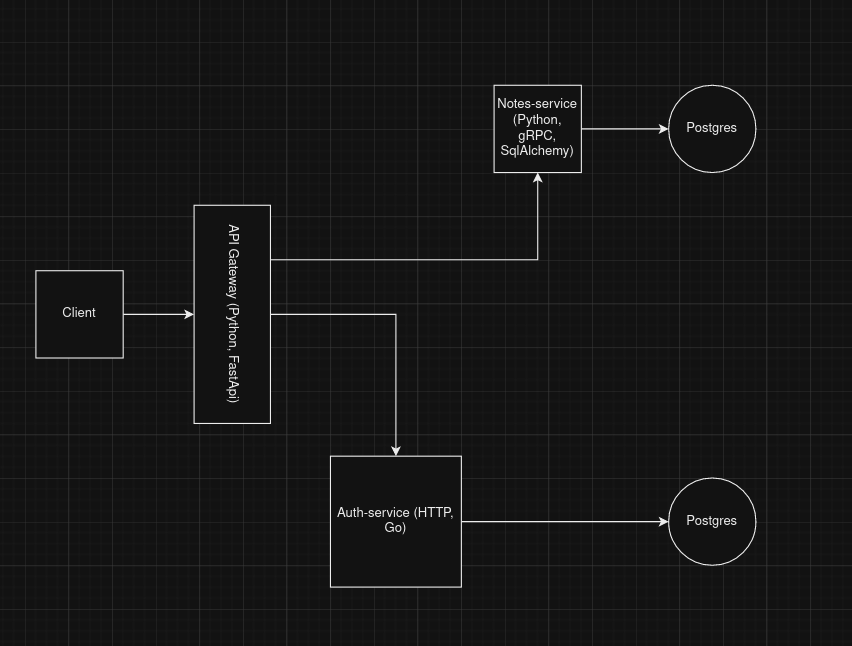
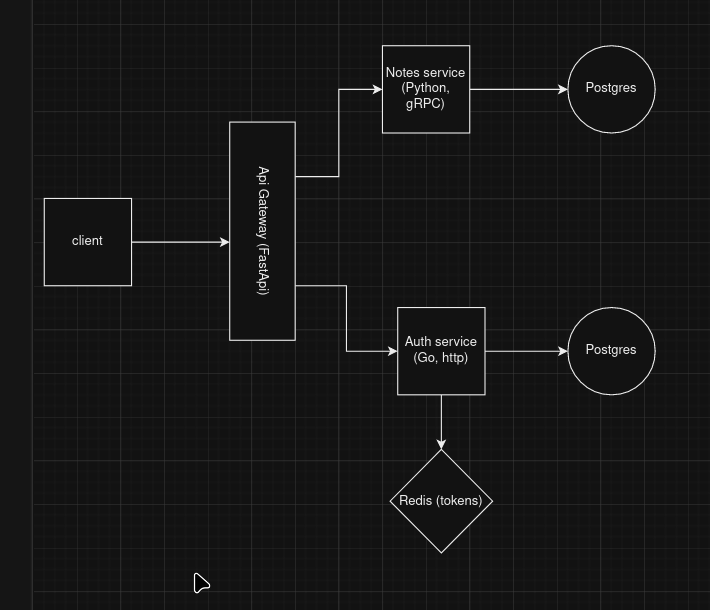
update: detailed description added in readme

diff --git a/01_api_gateway/app/clients/auth/handlers.py b/01_api_gateway/app/clients/auth/handlers.py
@@ -33,7 +33,6 @@ async def login_for_access_token(form_data: OAuth2PasswordRequestForm = Depends(
     auth_input = {"email": form_data.username, "password": form_data.password}
 
     try:
-        #print(auth_input.dict())
         auth_token = requests.post(url=settings.LOGIN_URL, json=auth_input)
         print(auth_token.json())
     except Exception as ex:
@@ -41,23 +40,12 @@ async def login_for_access_token(form_data: OAuth2PasswordRequestForm = Depends(
 
     return auth_token.json()
 
-    # user = await authenticate_user(form_data.username, form_data.password)
-    # if not user:
-    #     raise HTTPException(status_code=status.HTTP_401_UNAUTHORIZED, detail="Incorrect username or password",)
 
-    # # Если пользователь найден по почте, то создаем для него токен
-    # access_token_expires = timedelta(minutes=settings.ACCESS_TOKEN_EXPIRE_MINUTES)
+@router_auth.post("/register")
+async def register_user():
+    pass
 
-    # access_token = create_access_token(
-    #     data={"sub": user.email, "other_custom_data": [1, 2, 3, 4]},
-    #     expires_delta=access_token_expires,
-    # )
 
-    # return {"access_token": access_token, "token_type": "bearer"}
-
-# @router_auth.get("/")
-# async def test_for_auth(userUUID = Depends(get_userUUID_from_token)):
-
-#     """Получить информацию о пользователе по его id"""
-
-#     return JSONResponse({"userUUID": userUUID})
+@router_auth.get("/refreshtokens")
+async def refresh_tokens():
+    pass

diff --git a/03_notes_service/app/notes/handlers.py b/03_notes_service/app/notes/handlers.py
@@ -121,8 +121,8 @@ class NoteService(notes_pb2_grpc.NoteServicer):
         serialized_category = NotesByCategory.model_validate(category)
 
         user_permission = await verify_permission_category(category_id=serialized_category.category_id, 
-                                                     user_uuid=serialized_category.user_uuid,
-                                                     async_session=settings.async_session)
+                                                           user_uuid=serialized_category.user_uuid,
+                                                           async_session=settings.async_session)
         
         if user_permission is None:
 

diff --git a/02_auth_service/app/internal/auth/services.go b/02_auth_service/app/internal/auth/services.go
@@ -86,8 +86,6 @@ func (s *service) Login(ctx context.Context, loginUser LoginUserDTO) (*jwt.Token
 	// 	return nil, err
 	// }
 
-	fmt.Println("UUID", user.Email)
-
 	tokens, err := s.createSession(ctx, user.UUID)
 	if err != nil {
 		s.logger.Error("Failed to create session %w", err)
@@ -116,7 +114,6 @@ func (s *service) createSession(ctx context.Context, userUUID string) (jwt.Token
 	session := Session{
 		UserUUID:  userUUID,
 		ExpiresAt: time.Duration(s.refreshTokenTTL) * time.Minute,
-		// ExpiresAt: time.Now().Add(s.refreshTokenTTL),
 	}
 
 	err = s.redis.SetSession(ctx, res.RefreshToken, session)

diff --git a/02_auth_service/app/internal/auth/redis_store.go b/02_auth_service/app/internal/auth/redis_store.go
@@ -31,10 +31,9 @@ func (r *RedisRepo) SetSession(ctx context.Context, RefreshToken string, sess Se
 		return err
 	}
 
-	var q time.Time
-	q = time.Now().Local().Add(10 * time.Second)
+	timeExpireSession := time.Now().Local().Add(10 * time.Second)
 
-	r.client.ExpireAt(ctx, RefreshToken, q)
+	r.client.ExpireAt(ctx, RefreshToken, timeExpireSession)
 
 	return nil
 }

diff --git a/README.md b/README.md
@@ -1,25 +1,82 @@
 ## Описание
 
-## Схема микросервисов
+Приложение для хранения и создания заметок по категориям. Приложение состоит из
+трех микросервисов.
 
-![](https://github.com/iriskin77/notes_microservices/blob/master/images/microservices.jpg)
+1) Api Gateway (Python, FastApi) - является точкой входа в приложение, валидируется
+запросы, проверяет авторизацию и аутентификацию пользователей (парсит JWT). Через Api Gateway
+происходит обращение к другим сервисам.
+
+2) Auth service (Go) - сервис для регстрации и авторизации пользователей. Авторизация
+реализована через JWT, токены хранятся в Redis. 
+
+3) Note service (Python, gRPC) - сервис для хранения и создания заметок/категорий. 
+Для использования требуется регистрация/авторизация в сервисе Auth service.
+
+Для всех приложений созданые Dockerfile.
+
+Разумеется, для такого простого приложения не требуется использования микросервисной архитектуры, gRPC, разных языков программирования и прочих усложнений.
+Вполне достаточно использовать даже простой Django с его html шаблонами.
+ОДНАКО очень-очень хотелось попробовать написать микросервисы (впервые в жизни), да еще и на разных языках. Поэтому и написал.
+
+#### Схема микросервисов
+
+![](https://github.com/iriskin77/notes_microservices/blob/master/images/microservices.png)
 
 
-## Схема БД
+#### Общая схема БД
 
-![](https://github.com/iriskin77/notes_microservices/blob/master/images/db.jpg)
+![](https://github.com/iriskin77/notes_microservices/blob/master/images/db_schema.png)
 
 
 ### Api Gateway (Python, FastApi)
 
+#### Схема swagger из ApiGateway:
+
+![](https://github.com/iriskin77/notes_microservices/blob/master/images/endpoints.png)
+
 ### Auth service (Go, REST Api, Postgres)
+
+#### Описание
+
+Сервис для регистрации и авторизации пользователей. Авторизация реализована через JWT. После авторизации пользователю выдаются 
+access-token и refresh-token. Сессии с токенами хранятся в Redis.
+
+Взаимодействие с сервисом происходит по HTTP через Api Gateway.
+
+#### Схема БД
 
 #### HTTP Methods
 
+Набор эндпоинтов см. выше (Api Gateway)
+
 ### Note Service (Python, gRPC, Postgres)
 
-#### gRPC Requests
+#### Описание
 
-### File service (Go, gRPC, MinIO)
+Сервис для создания и хранения заметок по категориям. Взаимодействие происходит по gRPC
+через Api Gateway.
 
-#### gRPC Methods
+#### Схема БД
+
+![](https://github.com/iriskin77/notes_microservices/blob/master/images/endpoints.png)
+
+#### gRPC methods:
+
+Реализованные gRPC методы:
+
+Можно посмотреть выше (Api Gateway) или здесь в виде protobuf:
+
+```
+service Note {
+    rpc CreateNote (CreateNoteRequest) returns (CreateNoteResponse);
+    rpc GetNote (GetNoteRequest) returns (GetNoteResponse);
+    rpc GetNotes (GetListNotesRequest) returns (GetListNotesResponse);
+    rpc CreateCategory (CreateCategoryRequest) returns (CreateCategoryResponse);
+    rpc GetNotesByCategory (GetNotesByCategoryRequest) returns (GetNotesByCategoryResponse);
+    rpc UpdateNote (UpdateNoteRequest) returns (UpdateNoteResponse);
+    rpc DeleteNote (DeleteNoteRequest) returns (DeleteNoteReponse);
+}
+```
+
+
